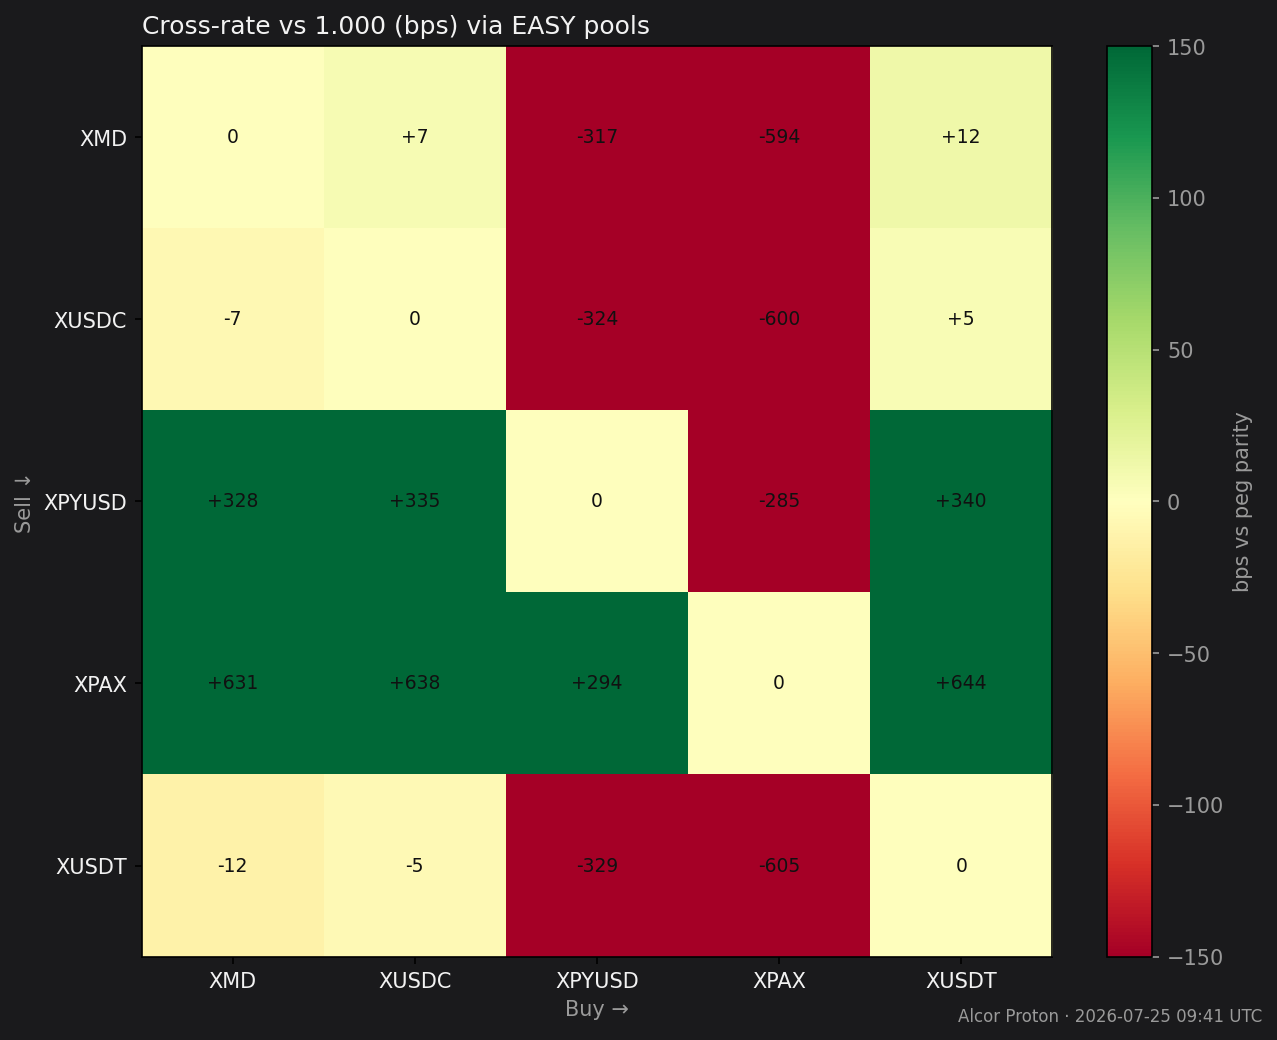
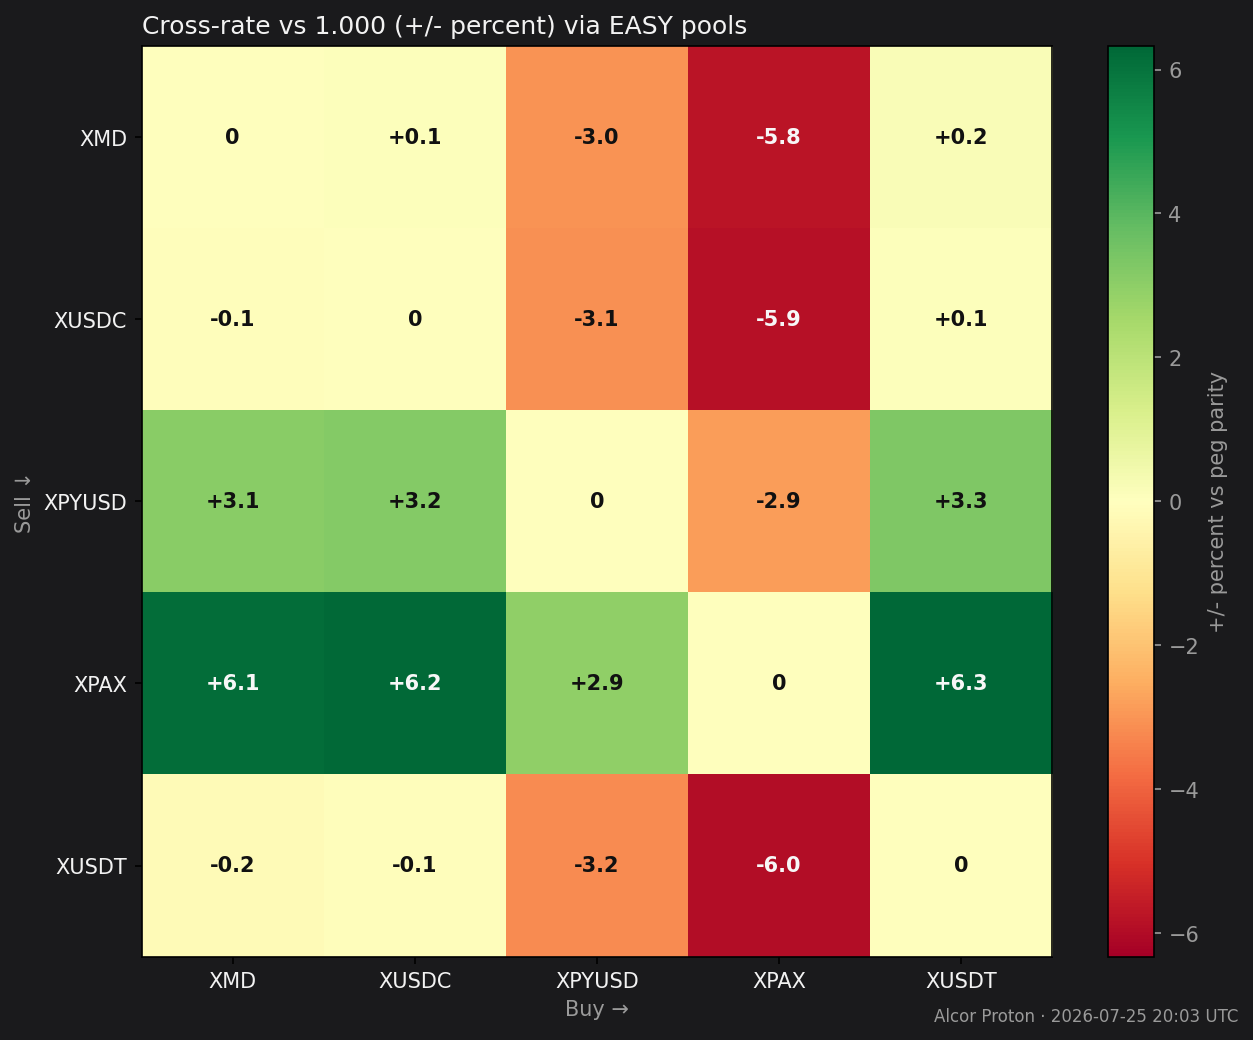
Update arbitrage and how it works

diff --git a/.cursor/skills/update-stats/scripts/refresh_arbitrage.py b/.cursor/skills/update-stats/scripts/refresh_arbitrage.py
@@ -89,12 +89,12 @@ def fmt_rate(x: float | None) -> str:
     return f"{x:.6f}"
 
 
-def fmt_bps(x: float | None) -> str:
+def fmt_pct(x: float | None) -> str:
     if x is None:
         return "-"
-    bps = (x - 1.0) * 10_000
-    sign = "+" if bps >= 0 else ""
-    return f"{sign}{bps:.1f}"
+    pct = (x - 1.0) * 100
+    sign = "+" if pct >= 0 else ""
+    return f"{sign}{pct:.2f}"
 
 
 def write_heatmap(matrix: list[list[float | None]], updated: str) -> None:
@@ -103,31 +103,44 @@ def write_heatmap(matrix: list[list[float | None]], updated: str) -> None:
     matplotlib.use("Agg")
     import matplotlib.pyplot as plt
     import numpy as np
+    from matplotlib import colors as mcolors
 
     ASSETS.mkdir(exist_ok=True)
     data = np.array(
-        [[(v - 1.0) * 10_000 if v is not None else np.nan for v in row] for row in matrix],
+        [[(v - 1.0) * 100 if v is not None else np.nan for v in row] for row in matrix],
         dtype=float,
     )
     fig, ax = plt.subplots(figsize=(8.5, 7), dpi=150)
     fig.patch.set_facecolor("#1a1a1c")
     ax.set_facecolor("#212121")
-    im = ax.imshow(data, cmap="RdYlGn", vmin=-150, vmax=150)
+    # Symmetric scale in percent (not basis points)
+    lim = float(np.nanmax(np.abs(data))) if np.isfinite(data).any() else 8.0
+    lim = max(lim, 1.0)
+    im = ax.imshow(data, cmap="RdYlGn", vmin=-lim, vmax=lim)
     ax.set_xticks(range(len(SYMBOLS)))
     ax.set_yticks(range(len(SYMBOLS)))
     ax.set_xticklabels(SYMBOLS, color="#f2f2f2")
     ax.set_yticklabels(SYMBOLS, color="#f2f2f2")
     ax.set_xlabel("Buy →", color="#9a9a9a")
     ax.set_ylabel("Sell ↓", color="#9a9a9a")
-    ax.set_title("Cross-rate vs 1.000 (bps) via EASY pools", color="#f2f2f2", loc="left")
+    ax.set_title("Cross-rate vs 1.000 (+/- percent) via EASY pools", color="#f2f2f2", loc="left")
+    norm = mcolors.Normalize(vmin=-lim, vmax=lim)
+    cmap = plt.get_cmap("RdYlGn")
     for i in range(len(SYMBOLS)):
         for j in range(len(SYMBOLS)):
             v = matrix[i][j]
             if v is None:
                 continue
-            ax.text(j, i, f"{(v-1)*10000:+.0f}" if i != j else "0", ha="center", va="center", color="#111", fontsize=9)
+            pct = (v - 1.0) * 100
+            # No % sign in cells; label/colorbar carry the unit
+            label = "0" if i == j else f"{pct:+.1f}"
+            rgba = cmap(norm(pct if i != j else 0.0))
+            # Relative luminance → dark text on light cells, light text on dark
+            lum = 0.299 * rgba[0] + 0.587 * rgba[1] + 0.114 * rgba[2]
+            text_color = "#111111" if lum > 0.55 else "#f7f7f7"
+            ax.text(j, i, label, ha="center", va="center", color=text_color, fontsize=10, fontweight="bold")
     cbar = fig.colorbar(im, ax=ax, fraction=0.046)
-    cbar.set_label("bps vs peg parity", color="#9a9a9a")
+    cbar.set_label("+/- percent vs peg parity", color="#9a9a9a")
     cbar.ax.yaxis.set_tick_params(color="#9a9a9a")
     plt.setp(cbar.ax.yaxis.get_ticklabels(), color="#9a9a9a")
     fig.text(0.99, 0.02, f"Alcor Proton · {updated}", ha="right", color="#9a9a9a", fontsize=8)
@@ -142,13 +155,13 @@ def write_markdown(payload: dict) -> None:
     header = "| Sell ↓ \\ Buy → | " + " | ".join(SYMBOLS) + " |"
     sep = "| --- | " + " | ".join(["---:"] * len(SYMBOLS)) + " |"
     rate_rows = []
-    bps_rows = []
+    pct_rows = []
     for i, sell in enumerate(SYMBOLS):
         rate_rows.append(
             f"| **{sell}** | " + " | ".join(fmt_rate(e["matrix"][i][j]) for j in range(len(SYMBOLS))) + " |"
         )
-        bps_rows.append(
-            f"| **{sell}** | " + " | ".join(fmt_bps(e["matrix"][i][j]) for j in range(len(SYMBOLS))) + " |"
+        pct_rows.append(
+            f"| **{sell}** | " + " | ".join(fmt_pct(e["matrix"][i][j]) for j in range(len(SYMBOLS))) + " |"
         )
 
     pool_lines = []
@@ -176,14 +189,14 @@ def write_markdown(payload: dict) -> None:
     top = edges[:5]
     bottom = list(reversed(edges[-5:])) if len(edges) >= 5 else []
     opp_lines = []
-    for bps, sell, buy, r in top:
-        if bps <= 0:
+    for delta, sell, buy, r in top:
+        if delta <= 0:
             continue
-        opp_lines.append(f"- Sell **{sell}** → buy **{buy}**: **{r:.6f}** ({bps*10000:+.1f} bps) via EASY")
-    for bps, sell, buy, r in bottom:
-        if bps >= 0:
+        opp_lines.append(f"- Sell **{sell}** → buy **{buy}**: **{r:.6f}** ({delta*100:+.2f}% vs parity) via EASY")
+    for delta, sell, buy, r in bottom:
+        if delta >= 0:
             continue
-        opp_lines.append(f"- Sell **{sell}** → buy **{buy}**: **{r:.6f}** ({bps*10000:+.1f} bps) via EASY")
+        opp_lines.append(f"- Sell **{sell}** → buy **{buy}**: **{r:.6f}** ({delta*100:+.2f}% vs parity) via EASY")
     if not opp_lines:
         opp_lines = ["- No material dislocation vs 1:1 in this snapshot."]
 
@@ -197,9 +210,9 @@ Dated cross-rates for selling each of **XMD · XUSDC · XPYUSD · XPAX · XUSDT*
 
 *Snapshot: **{updated}** · Primary path: deepest **EASY**↔stable pools*
 
-## Cross-rate heatmap (bps)
+## Cross-rate heatmap (+/- percent)
 
-![Cross-rate heatmap (bps)](assets/arbitrage-heatmap.png)
+![Cross-rate heatmap (+/- percent vs parity)](assets/arbitrage-heatmap.png)
 
 ## How to read
 
@@ -211,7 +224,7 @@ flowchart LR
 
 - Rows = **sell** this coin. Columns = **buy** that coin.
 - Cell = how many **buy** tokens you get per **1.0 sell** token (implied), routing **sell → EASY → buy**.
-- **bps** = distance from 1.0000 (parity). Green opportunity when you receive more than 1.0 of a same-peg asset after fees/slippage. Always simulate on [Alcor Swap](https://alcor.exchange/v/xpr/swap) before sizing.
+- Heatmap / percent table = distance from 1.0000 (parity) as **+/- percent** (green when you receive more than 1.0 of a same-peg asset after fees/slippage). Always simulate on [Alcor Swap](https://alcor.exchange/v/xpr/swap) before sizing.
 
 Fees, hop slippage, and pool depth can erase small edges. EASY transfer tax (2%) applies when EASY moves to non-exempt accounts. Prefer routing that stays inside `swap.alcor` memos when possible.
 
@@ -221,11 +234,11 @@ Fees, hop slippage, and pool depth can erase small edges. EASY transfer tax (2%)
 {sep}
 {chr(10).join(rate_rows)}
 
-### Same matrix in basis points vs 1.000
+### Same matrix as +/- percent vs 1.000
 
 {header}
 {sep}
-{chr(10).join(bps_rows)}
+{chr(10).join(pct_rows)}
 
 ## Standout legs (this snapshot)
 

diff --git a/arbitrage.md b/arbitrage.md
@@ -2,11 +2,11 @@
 
 Dated cross-rates for selling each of **XMD · XUSDC · XPYUSD · XPAX · XUSDT** into the others on Alcor (XPR Network).
 
-*Snapshot: **2026-07-25 09:41 UTC** · Primary path: deepest **EASY**↔stable pools*
+*Snapshot: **2026-07-25 20:03 UTC** · Primary path: deepest **EASY**↔stable pools*
 
-## Cross-rate heatmap (bps)
+## Cross-rate heatmap (+/- percent)
 
-![Cross-rate heatmap (bps)](assets/arbitrage-heatmap.png)
+![Cross-rate heatmap (+/- percent vs parity)](assets/arbitrage-heatmap.png)
 
 ## How to read
 
@@ -18,7 +18,7 @@ flowchart LR
 
 - Rows = **sell** this coin. Columns = **buy** that coin.
 - Cell = how many **buy** tokens you get per **1.0 sell** token (implied), routing **sell → EASY → buy**.
-- **bps** = distance from 1.0000 (parity). Green opportunity when you receive more than 1.0 of a same-peg asset after fees/slippage. Always simulate on [Alcor Swap](https://alcor.exchange/v/xpr/swap) before sizing.
+- Heatmap / percent table = distance from 1.0000 (parity) as **+/- percent** (green when you receive more than 1.0 of a same-peg asset after fees/slippage). Always simulate on [Alcor Swap](https://alcor.exchange/v/xpr/swap) before sizing.
 
 Fees, hop slippage, and pool depth can erase small edges. EASY transfer tax (2%) applies when EASY moves to non-exempt accounts. Prefer routing that stays inside `swap.alcor` memos when possible.
 
@@ -26,34 +26,34 @@ Fees, hop slippage, and pool depth can erase small edges. EASY transfer tax (2%)
 
 | Sell ↓ \ Buy → | XMD | XUSDC | XPYUSD | XPAX | XUSDT |
 | --- | ---: | ---: | ---: | ---: | ---: |
-| **XMD** | 1.000000 | 1.000681 | 0.968272 | 0.940640 | 1.001214 |
-| **XUSDC** | 0.999320 | 1.000000 | 0.967613 | 0.940000 | 1.000532 |
-| **XPYUSD** | 1.032768 | 1.033471 | 1.000000 | 0.971462 | 1.034021 |
-| **XPAX** | 1.063106 | 1.063830 | 1.029376 | 1.000000 | 1.064397 |
-| **XUSDT** | 0.998788 | 0.999468 | 0.967098 | 0.939499 | 1.000000 |
+| **XMD** | 1.000000 | 1.000873 | 0.969828 | 0.942174 | 1.001790 |
+| **XUSDC** | 0.999128 | 1.000000 | 0.968982 | 0.941352 | 1.000917 |
+| **XPYUSD** | 1.031111 | 1.032011 | 1.000000 | 0.971485 | 1.032957 |
+| **XPAX** | 1.061375 | 1.062302 | 1.029352 | 1.000000 | 1.063276 |
+| **XUSDT** | 0.998213 | 0.999084 | 0.968095 | 0.940490 | 1.000000 |
 
-### Same matrix in basis points vs 1.000
+### Same matrix as +/- percent vs 1.000
 
 | Sell ↓ \ Buy → | XMD | XUSDC | XPYUSD | XPAX | XUSDT |
 | --- | ---: | ---: | ---: | ---: | ---: |
-| **XMD** | +0.0 | +6.8 | -317.3 | -593.6 | +12.1 |
-| **XUSDC** | -6.8 | +0.0 | -323.9 | -600.0 | +5.3 |
-| **XPYUSD** | +327.7 | +334.7 | +0.0 | -285.4 | +340.2 |
-| **XPAX** | +631.1 | +638.3 | +293.8 | +0.0 | +644.0 |
-| **XUSDT** | -12.1 | -5.3 | -329.0 | -605.0 | +0.0 |
+| **XMD** | +0.00 | +0.09 | -3.02 | -5.78 | +0.18 |
+| **XUSDC** | -0.09 | +0.00 | -3.10 | -5.86 | +0.09 |
+| **XPYUSD** | +3.11 | +3.20 | +0.00 | -2.85 | +3.30 |
+| **XPAX** | +6.14 | +6.23 | +2.94 | +0.00 | +6.33 |
+| **XUSDT** | -0.18 | -0.09 | -3.19 | -5.95 | +0.00 |
 
 ## Standout legs (this snapshot)
 
-- Sell **XPAX** → buy **XUSDT**: **1.064397** (+644.0 bps) via EASY
-- Sell **XPAX** → buy **XUSDC**: **1.063830** (+638.3 bps) via EASY
-- Sell **XPAX** → buy **XMD**: **1.063106** (+631.1 bps) via EASY
-- Sell **XPYUSD** → buy **XUSDT**: **1.034021** (+340.2 bps) via EASY
-- Sell **XPYUSD** → buy **XUSDC**: **1.033471** (+334.7 bps) via EASY
-- Sell **XUSDT** → buy **XPAX**: **0.939499** (-605.0 bps) via EASY
-- Sell **XUSDC** → buy **XPAX**: **0.940000** (-600.0 bps) via EASY
-- Sell **XMD** → buy **XPAX**: **0.940640** (-593.6 bps) via EASY
-- Sell **XUSDT** → buy **XPYUSD**: **0.967098** (-329.0 bps) via EASY
-- Sell **XUSDC** → buy **XPYUSD**: **0.967613** (-323.9 bps) via EASY
+- Sell **XPAX** → buy **XUSDT**: **1.063276** (+6.33% vs parity) via EASY
+- Sell **XPAX** → buy **XUSDC**: **1.062302** (+6.23% vs parity) via EASY
+- Sell **XPAX** → buy **XMD**: **1.061375** (+6.14% vs parity) via EASY
+- Sell **XPYUSD** → buy **XUSDT**: **1.032957** (+3.30% vs parity) via EASY
+- Sell **XPYUSD** → buy **XUSDC**: **1.032011** (+3.20% vs parity) via EASY
+- Sell **XUSDT** → buy **XPAX**: **0.940490** (-5.95% vs parity) via EASY
+- Sell **XUSDC** → buy **XPAX**: **0.941352** (-5.86% vs parity) via EASY
+- Sell **XMD** → buy **XPAX**: **0.942174** (-5.78% vs parity) via EASY
+- Sell **XUSDT** → buy **XPYUSD**: **0.968095** (-3.19% vs parity) via EASY
+- Sell **XUSDC** → buy **XPYUSD**: **0.968982** (-3.10% vs parity) via EASY
 
 ## EASY pool anchors
 
@@ -61,18 +61,18 @@ Fees, hop slippage, and pool depth can erase small edges. EASY transfer tax (2%)
 
 | Stable | Pool | EASY per 1 stable | Stable TVL | 24h vol |
 | --- | --- | ---: | ---: | ---: |
-| XMD | [4067](https://alcor.exchange/v/xpr/analytics/pools/4067) | 60.5532 | $11,925 | $6,581 |
-| XUSDC | [4065](https://alcor.exchange/v/xpr/analytics/pools/4065) | 60.5120 | $11,990 | $2,798 |
-| XPYUSD | [4068](https://alcor.exchange/v/xpr/analytics/pools/4068) | 62.5374 | $11,450 | $50 |
-| XPAX | [4070](https://alcor.exchange/v/xpr/analytics/pools/4070) | 64.3745 | $11,498 | $1 |
-| XUSDT | [4066](https://alcor.exchange/v/xpr/analytics/pools/4066) | 60.4798 | $11,782 | $1,270 |
+| XMD | [4067](https://alcor.exchange/v/xpr/analytics/pools/4067) | 60.6515 | $11,955 | $632 |
+| XUSDC | [4065](https://alcor.exchange/v/xpr/analytics/pools/4065) | 60.5986 | $11,951 | $696 |
+| XPYUSD | [4068](https://alcor.exchange/v/xpr/analytics/pools/4068) | 62.5384 | $11,478 | $49 |
+| XPAX | [4070](https://alcor.exchange/v/xpr/analytics/pools/4070) | 64.3740 | $11,535 | $1 |
+| XUSDT | [4066](https://alcor.exchange/v/xpr/analytics/pools/4066) | 60.5431 | $11,768 | $46 |
 
 ### Alcor mark prices
 
 | Stable | usd_price |
 | --- | ---: |
-| XMD | $0.9805 |
+| XMD | $0.9866 |
 | XUSDC | $1.0000 |
-| XPYUSD | $1.0308 |
-| XPAX | $1.0443 |
-| XUSDT | $0.9815 |
+| XPYUSD | $1.0334 |
+| XPAX | $1.0476 |
+| XUSDT | $0.9827 |

diff --git a/how-it-works.md b/how-it-works.md
@@ -1,0 +1,48 @@
+# How it works
+
+Welcome.
+
+> Flex Tokens live on **XPR Network**: free-feeling transfers, human-readable accounts, and a wallet built for one-click actions. Start with the [WebAuth wallet](https://www.xprnetwork.org/wallet), read the [XPR whitepaper](https://xprnetwork.org/whitepaper) and [docs](https://docs.xprnetwork.org/), and move assets in via the [Metal X bridge](https://app.metalx.com/bridge).
+
+## Money flow
+
+All Flex tokens send **proportional rewards** straight to your wallet. Those rewards come from a **reflection pool** filled by a small tax on transfers.
+
+1. Someone transfers (or swaps through) a Flex token.
+2. A configured % of that transfer lands in the reflection pool (and optionally burn / team).
+3. Anyone can call the payout action (`distribute` / `radiate` / `reflect`).
+4. Holders receive their share in-wallet. You can keep the same token (**reflect**) or **flex** rewards into another token via Alcor (BTC, SOL, other Flex tokens, and more).
+
+```mermaid
+flowchart LR
+  Move[Transfer or swap] --> Tax[Transfer tax]
+  Tax --> Pool[Reflection pool]
+  Tax -.-> Burn[Burn optional]
+  Tax -.-> Team[Team optional]
+  Pool --> Pay[Payout action]
+  Pay --> Wallet[Your wallet]
+```
+
+```mermaid
+flowchart TB
+  Hold[You hold Flex token] --> Choice{Reward choice}
+  Choice -->|Default| Same[Same token reflects in]
+  Choice -->|Flex| Other[Other token via Alcor]
+```
+
+Protocol fees (separate from the transfer tax above) are explained in [Legal & Terms](legal-and-terms.md).
+
+## Fee rates
+
+| Token | Reflection | Burn | Team | Tagline |
+| --- | ---: | ---: | ---: | --- |
+| **EASY** | 2% | - | - | Take it EASY |
+| **WON** | 2.2% | - | 0.8% | We WON |
+| **MEME** | 1% | 1% | - | burns + farms |
+| **GRAMS** | 1.1% | - | 0.11% | gold-backed |
+
+Each may have additional farming rewards. EASY alone has a protocol fee path that funds Flex volunteer work and infrastructure (see [Legal & Terms](legal-and-terms.md)).
+
+## Take it EASY
+
+[Swap EASY](https://alcor.exchange/v/xpr/swap?input=XUSDC-xtokens&output=EASY-mon3y) on Alcor, then keep reading for [tokenomics](tokenomics.md), [maximizing](maximizing-your-easy.md), and bi-weekly EASY Club meetings.

diff --git a/legal-and-terms.md b/legal-and-terms.md
@@ -10,6 +10,22 @@ This is not an investment token, and there is no public sale.
 
 EASY is not an asset that can be possessed by an individual or organization, and 100% of the token is owned by the contract as data in the tables.
 
+## Protocol fees
+
+The project reserves the right to apply a **0.3%** protocol fee in connection with Flex reflection / liquidity pool mechanics, as described here.
+
+**How the 0.3% protocol fee works**
+
+- A **0.3% protocol fee of/from the reflection pool** is taken **for each reflection** (each rewards payout action).
+- It is paid to **core / developer by default**, or toward the **contributor club / volunteer budget** when that path is configured for the action.
+- The fee happens in the background as balances adjust on the contract: it takes a small portion of the **reward pool** on each action of sending out rewards.
+- Because it is **per action**, the fee amount varies with how often payouts run. It is tied to the **total amount in the pool (0.3%)**, not to the size of any single holder’s reflection.
+- More frequent community payouts leave holders with a higher share of rewards over time; infrequent payouts leave more of the pool path with core.
+
+`reflections` is the account that houses volunteer reward budget that pays for Contributors Club and EASY Quests, and maintains some liquidity positions. Club budget (what people are paid at Contributors Club) is determined before each meeting; the rest stays until the next meeting, with small LP adjustments as needed.
+
+Transfer taxes (reflection / burn / team rates on each Flex token) are separate from this protocol fee. See [How it works](how-it-works.md).
+
 As always, we do our best and you’ll see that in our track record, including cXc.world, xparty.win, and the performance of EASY in the markets.
 
 This legal note protects our volunteers and those we serve. Thank you for your trust in the project and the developer, Douglas James Butner.

diff --git a/.cursor/skills/update-stats/SKILL.md b/.cursor/skills/update-stats/SKILL.md
@@ -40,7 +40,7 @@ Requires network. Needs `matplotlib` for chart PNGs (`pip install matplotlib` if
 
 3. Optionally refresh Success-in-Community Alcor charts if the user also asks for story/price charts (that is a separate path) (see below). Do **not** rewrite founder/legal content.
 
-4. Brief the user with: EASY price, 24h EASY volume, Alcor Proton swap 1D volume, reflection pool, top arb bps (best sell→buy leg), updated timestamp.
+4. Brief the user with: EASY price, 24h EASY volume, Alcor Proton swap 1D volume, reflection pool, top arb +/- % (best sell→buy leg), updated timestamp.
 
 ## Alcor links in generated markdown
 
@@ -83,10 +83,10 @@ Do not use spot `markets` volume for EASY: liquidity is almost entirely AMM/swap
 Keep `arbitrage.md` structure:
 
 1. Dated snapshot header (UTC)
-2. Cross-rate heatmap (bps) at the top
+2. Cross-rate heatmap (+/- percent) at the top
 3. How to read (sell rows / buy cols)
 4. 5×5 rate matrix via EASY
-5. Same matrix in bps vs 1.0
+5. Same matrix as +/- percent vs 1.0
 6. Standout legs
 7. EASY pool anchors with **Stable TVL** (non-EASY side only) + Alcor `usd_price` row
 

diff --git a/SUMMARY.md b/SUMMARY.md
@@ -2,7 +2,7 @@
 
 * [EASY Onboarding](README.md)
 * [Why EASY](why-easy.md)
-* [Start Here](start-here.md)
+* [How it works](how-it-works.md)
 * [Tokenomics of EASY](tokenomics.md)
 * [Celestial Buybacks](celestial-buybacks.md)
 * [Market Stats](market-stats.md)
